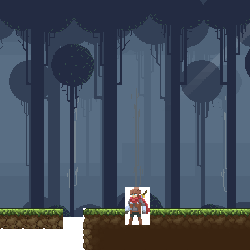
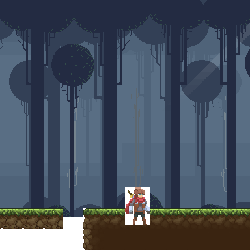
health potion

Changed region(s): [[0.504, 0.756, 0.616, 0.924]]

diff --git a/src/entity/EntityType.java b/src/entity/EntityType.java
@@ -13,7 +13,12 @@ public enum EntityType {
     GOLD_COIN("resources/images/objects/coins/gold_coin_", 6, 8),
     PLANT_MONSTER("resources/images/characters/plant/plant_monster.png"),
     STONE_DOOR("resources/images/blocks/stoneDoor.png"),
-    HEART("resources/images/characters/heart_", 6, 6);
+    HEART("resources/images/characters/heart_", 6, 6),
+    HEALTH_POTION("resources/images/items/potion_",4,10),
+    MUSHROOM_SPAWN("resources/images/characters/mushroom/mushroom_spawn.png"),
+    MUSHROOM_MONSTER("resources/images/characters/mushroom/mushroom_boss_idle.png");
+
+
 
 
     private final String filePath;

diff --git a/src/main/Game.java b/src/main/Game.java
@@ -69,7 +69,7 @@ public class Game extends GameEngine {
         this.setWindowSize(1280, 720);
 
         this.lvlManager = new LevelManager(this);
-        setActiveLevel(lvlManager.FOREST_2);
+        setActiveLevel(lvlManager.FOREST);
         this.levelEditor = new LevelEditorBlocks(getActiveLevel());
         tempLoc = new Location(getActiveLevel().getActualWidth() / 2, getActiveLevel().getActualWidth() / 2);
         this.mouseBox = new CollisionBox(mouseX, mouseY, 2, 2);

diff --git a/src/entity/Player.java b/src/entity/Player.java
@@ -40,7 +40,7 @@ public class Player extends EntityLiving {
 
     public Player(Level level, Location loc) {
         super(EntityType.PLAYER, level, loc);
-        this.backPack = new Inventory(5, 2);
+        this.backPack = new Inventory(8, 1);
         setHitboxColor(Color.cyan);
         setAttackCooldown(0.5);
         setMaxHealth(100);
